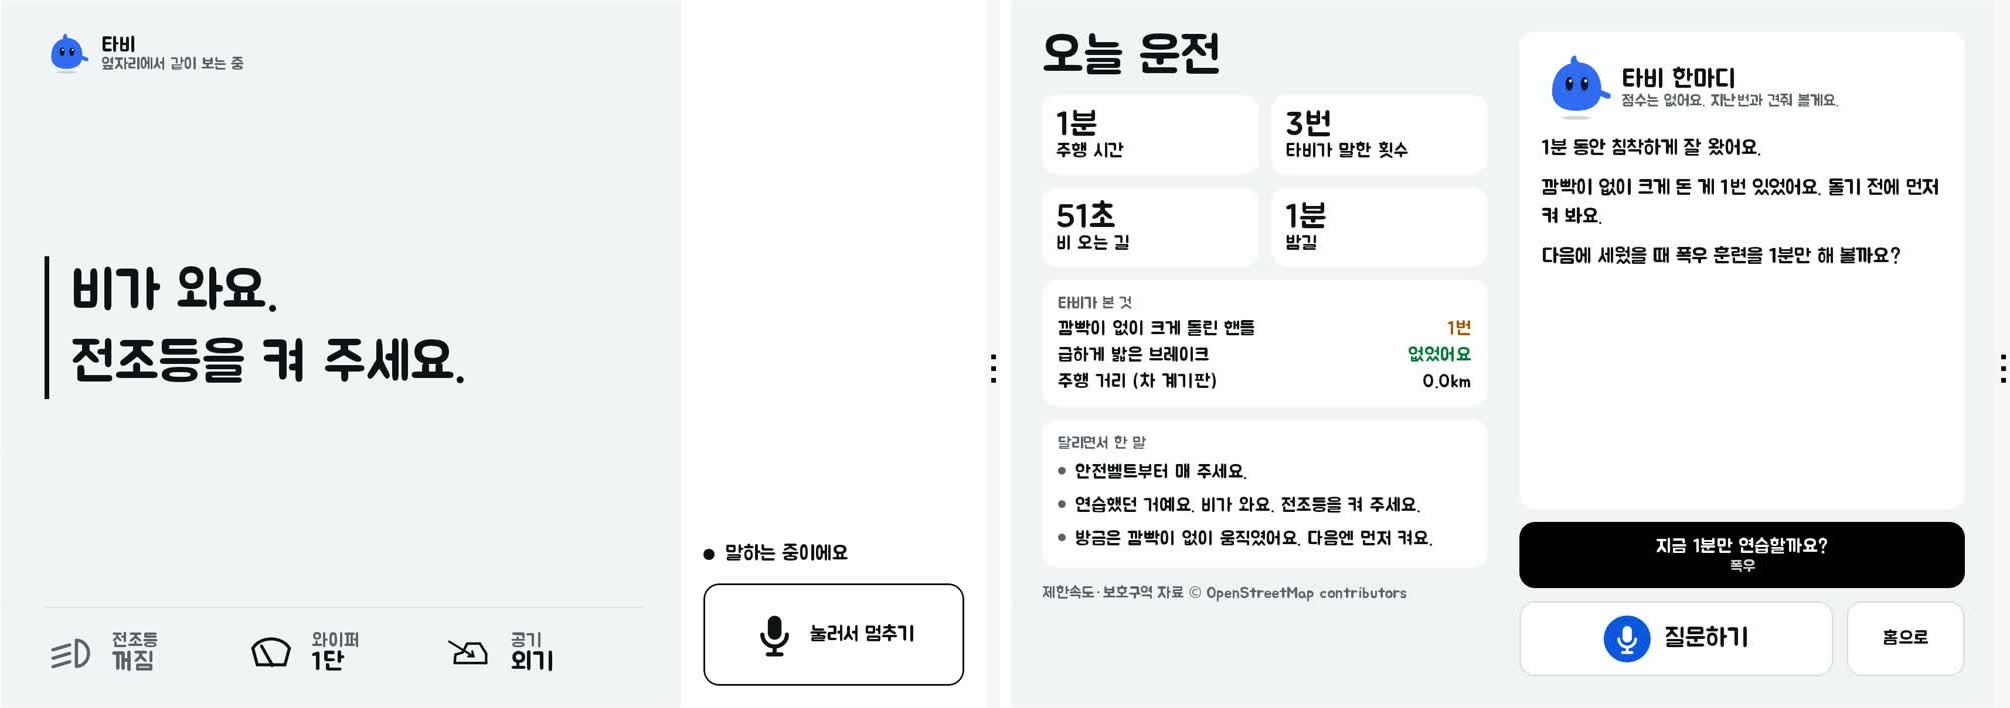
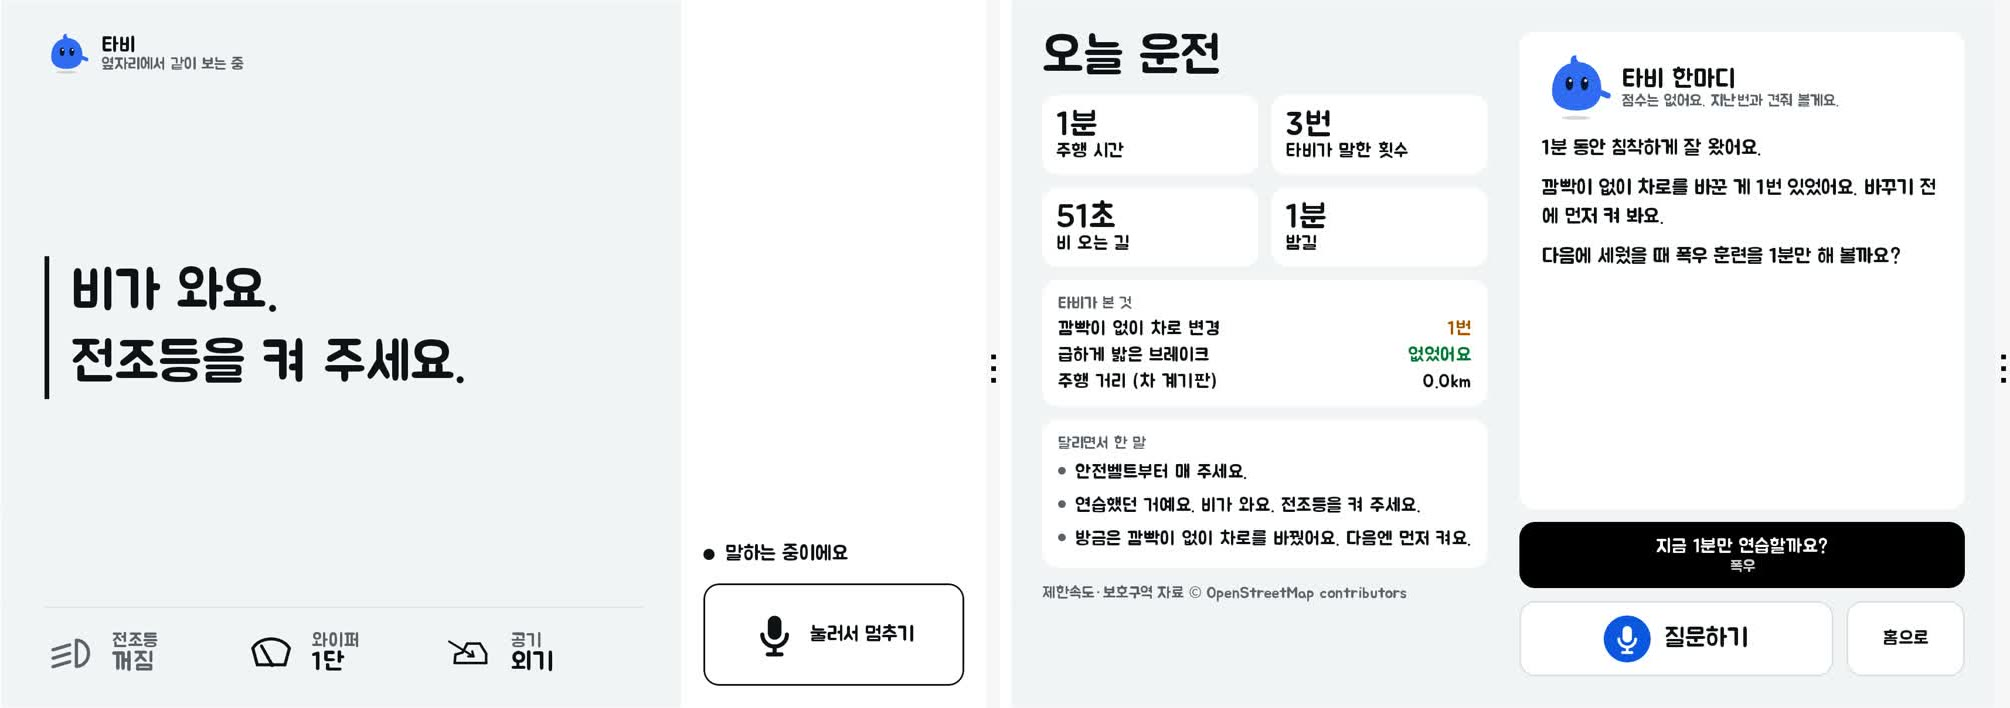
기획서: 그림을 v28 화면으로 교체

Changed region(s): [[0.7711, 0.2486, 0.9871, 0.3107], [0.5861, 0.7458, 0.7403, 0.7768], [0.5552, 0.435, 0.6169, 0.4972]]

diff --git a/docs/plan/application-draft.md b/docs/plan/application-draft.md
@@ -230,7 +230,7 @@
 | core (순수 로직) | 훈련 판정과 점수, 코치 규칙과 말수 제한, 경로와 훈련 짝짓기, 미니게임 |
 | 음성 계층 | Pleos TTS·STT, AI 에이전트(글자만 주고받음), 효과음 |
 
-- 판정, 점수, 코치 규칙은 안드로이드와 분리한 순수 로직으로 만들고 자동 테스트 270개로 검증해요.
+- 판정, 점수, 코치 규칙은 안드로이드와 분리한 순수 로직으로 만들고 자동 테스트 270여 개로 검증해요.
 - 훈련 장면은 외부 3D 모델 없이 코드로 그린 3D예요(three.js). 판정은 core가 하고, 장면은 차량 신호를 따라 그리기만 해요.
 - **리소스 기준 준수**(에뮬레이터 release 실측): 정차 훈련 중 CPU 평균 16%대·최대 19.4%, 30fps, 메모리 228~254MB. 운전 중에는 3D를 쓰지 않아 CPU 평균 0.11%예요. 공모전 기준(정차 25%, 주행 5%, 메모리 400MB) 안이에요. 실제 차량에서는 아직 재지 못했어요.
 - 화면은 Pleos Connect 시스템 스타일(주간·야간)에 맞췄어요. 코치 타비는 캐릭터로 나와서 듣는 중, 생각하는 중, 말하는 중, 기쁨, 놀람, 격려를 표정으로 보여 줘요. 운전 중 화면에서는 움직이지 않아요.
